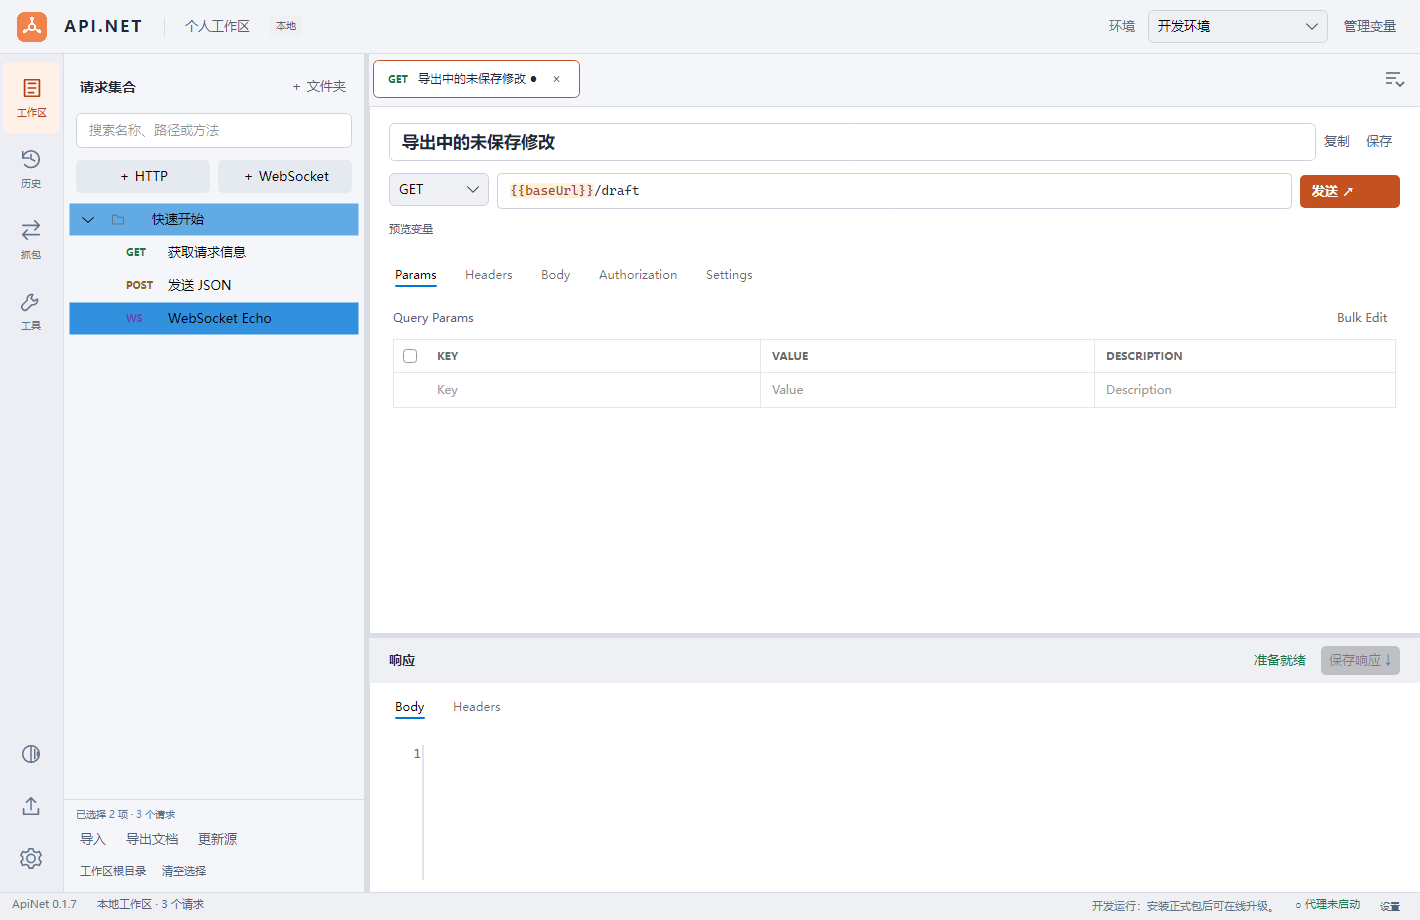
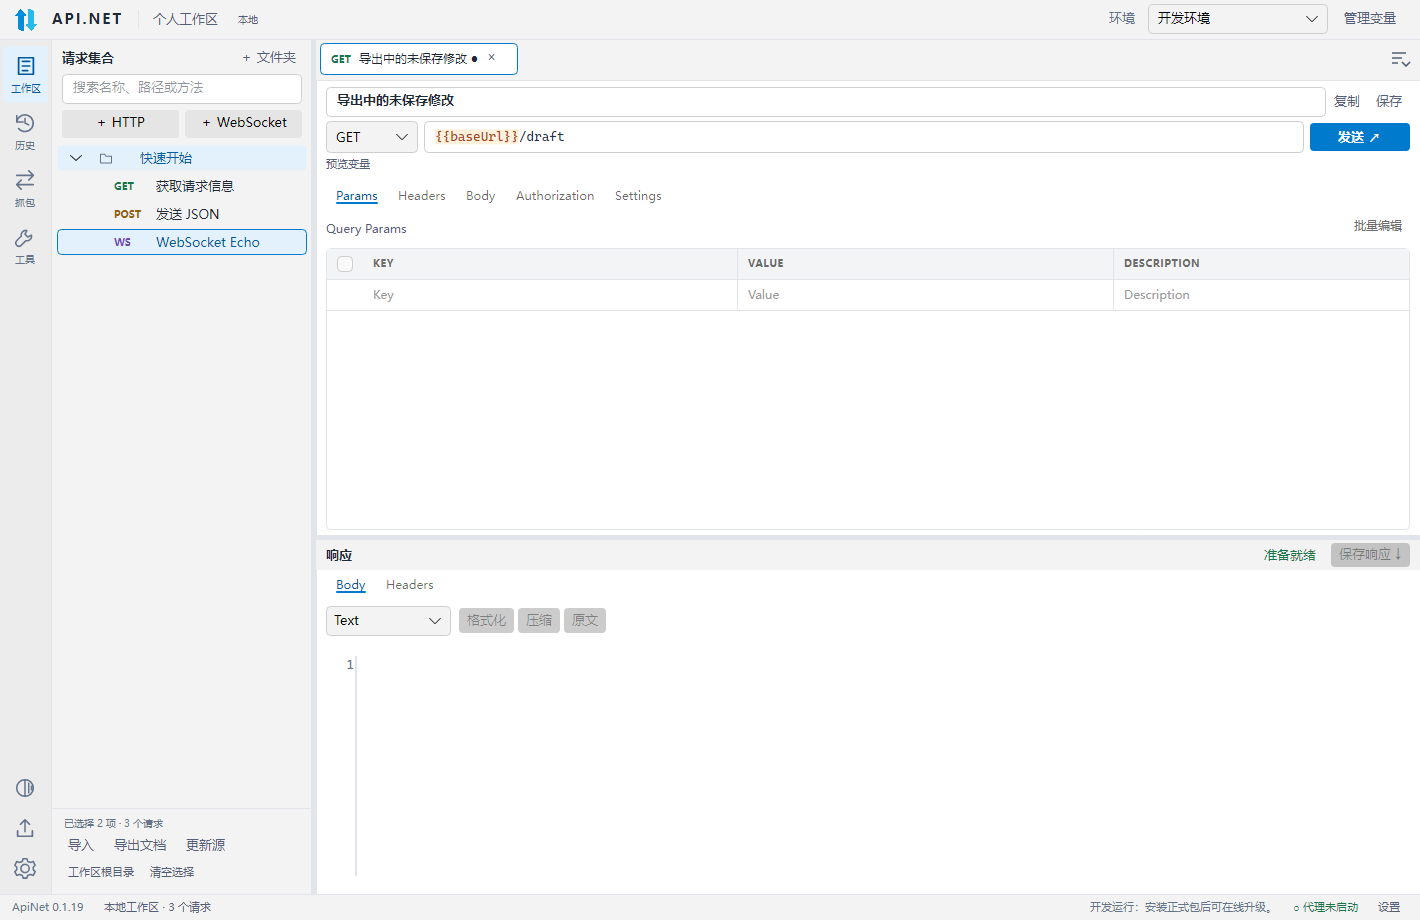
Refine workbench density and themed selection for v0.1.19

diff --git a/tests/ApiNet.Desktop.Tests/UiFeedbackTests.Appearance.cs b/tests/ApiNet.Desktop.Tests/UiFeedbackTests.Appearance.cs
@@ -3,6 +3,8 @@ using ApiNet.Desktop.Controls;
 using ApiNet.Desktop.Services;
 using ApiNet.Desktop.ViewModels.Settings;
 using ApiNet.Desktop.ViewModels.Tabs;
+using ApiNet.Desktop.ViewModels.Workspace;
+using ApiNet.Desktop.ViewModels.Tools;
 using ApiNet.Desktop.Views;
 using ApiNet.Desktop.Views.Tabs;
 using ApiNet.Infrastructure.Persistence;
@@ -94,12 +96,19 @@ public partial class UiFeedbackTests
             var http = window.GetVisualDescendants().OfType<HttpRequestView>().Single();
             http.FindControl<TabControl>("HttpRequestTabs")!.SelectedIndex = 1;
             http.FindControl<TabControl>("HttpResponseTabs")!.SelectedIndex = 1;
+            window.UpdateLayout(); Dispatcher.UIThread.RunJobs(); AvaloniaHeadlessPlatform.ForceRenderTimerTick();
+            var tree = window.GetVisualDescendants().OfType<TreeView>().Single();
+            var initialItem = tree.GetVisualDescendants().OfType<TreeViewItem>().Single(item => item.DataContext is WorkspaceNodeViewModel node && node.Id == tab.Id);
+            var label = initialItem.GetVisualDescendants().OfType<TextBlock>().First(text => text.Text == ((WorkspaceNodeViewModel)initialItem.DataContext!).Name);
+            var selectPoint = label.TranslatePoint(new Point(12, label.Bounds.Height / 2), window)!.Value;
+            window.MouseDown(selectPoint, MouseButton.Left); window.MouseUp(selectPoint, MouseButton.Left); Dispatcher.UIThread.RunJobs();
+            Assert.True(model.HasWorkspaceSelection);
             var colors = new HashSet<Color>();
             foreach (var theme in new[] { "Dark", "Light", "Midnight" })
             {
                 var settings = new SettingsViewModel(model.Workspace.Settings) { Theme = theme switch { "Dark" => "深色", "Light" => "浅色", _ => "午夜蓝" } };
                 settings.SaveCommand.Execute(null); await model.SettingsCommand.ExecuteAsync(null);
-                window.UpdateLayout(); Dispatcher.UIThread.RunJobs();
+                window.UpdateLayout(); Dispatcher.UIThread.RunJobs(); AvaloniaHeadlessPlatform.ForceRenderTimerTick();
                 colors.Add(Assert.IsAssignableFrom<ISolidColorBrush>(window.Background).Color);
                 var table = http.GetVisualDescendants().OfType<ParameterTable>().Single(x => x.Title == "Headers");
                 var checkbox = table.GetVisualDescendants().OfType<CheckBox>().Single(x => x.DataContext == tab.HeaderRows[0]);
@@ -107,7 +116,31 @@ public partial class UiFeedbackTests
                 Assert.Equal(ThemeService.Brush("Accent").ToString(), box.Background!.ToString());
                 var editor = table.GetVisualDescendants().OfType<CodeEditor>().First(x => x.Watermark == "Key");
                 Assert.Equal(ThemeService.Brush("TableText").ToString(), editor.Editor.Foreground!.ToString());
+                Assert.True(Application.Current!.TryGetResource("SystemAccentColor", Application.Current.ActualThemeVariant, out var fluentAccent));
+                Assert.Equal(Assert.IsAssignableFrom<ISolidColorBrush>(ThemeService.Brush("Accent")).Color, Assert.IsType<Color>(fluentAccent));
+                var selected = tree.GetVisualDescendants().OfType<TreeViewItem>().Single(item => item.DataContext is WorkspaceNodeViewModel node && node.Id == tab.Id);
+                Assert.Same(initialItem, selected);
+                Assert.True(selected.IsSelected);
+                var row = selected.GetVisualDescendants().OfType<Border>().Single(border => border.Name == "PART_LayoutRoot");
+                Assert.Equal(ThemeService.Brush("AccentSurface").ToString(), row.Background!.ToString());
+                Assert.Equal(new CornerRadius(4), row.CornerRadius);
+                Assert.InRange(selected.Bounds.Height, 27, 29);
+                var hoverPoint = row.TranslatePoint(new Point(row.Bounds.Width / 2, row.Bounds.Height / 2), window)!.Value;
+                window.MouseMove(hoverPoint); Dispatcher.UIThread.RunJobs();
+                Assert.Equal(ThemeService.Brush("AccentSurface").ToString(), row.Background!.ToString());
+                Assert.Equal(ThemeService.Brush("Accent").ToString(), row.BorderBrush!.ToString());
+                window.MouseMove(new Point(1, 1)); Dispatcher.UIThread.RunJobs();
                 SaveFrame(window, $"workbench-{theme.ToLowerInvariant()}-compact.png");
+                model.ActivePanel = "工具";
+                window.UpdateLayout(); Dispatcher.UIThread.RunJobs(); AvaloniaHeadlessPlatform.ForceRenderTimerTick();
+                var toolList = window.GetVisualDescendants().OfType<ListBox>().Single(list => list.ItemsSource == ToolsViewModel.Kinds);
+                var toolItem = Assert.IsType<ListBoxItem>(toolList.ContainerFromIndex(toolList.SelectedIndex));
+                var toolPresenter = toolItem.GetVisualDescendants().OfType<Avalonia.Controls.Presenters.ContentPresenter>().Single(presenter => presenter.Name == "PART_ContentPresenter");
+                Assert.Equal(ThemeService.Brush("AccentSurface").ToString(), toolPresenter.Background!.ToString());
+                Assert.Equal(new CornerRadius(4), toolPresenter.CornerRadius);
+                SaveFrame(window, $"navigation-tools-{theme.ToLowerInvariant()}.png");
+                model.ActivePanel = "工作区";
+                window.UpdateLayout(); Dispatcher.UIThread.RunJobs();
             }
             Assert.Equal(3, colors.Count); Assert.Equal(ThemeService.Midnight, window.ActualThemeVariant);
             var headerTable = http.GetVisualDescendants().OfType<ParameterTable>().Single(x => x.Title == "Headers");

diff --git a/src/ApiNet.UI/ViewModels/Workspace/WorkspaceNodeViewModel.cs b/src/ApiNet.UI/ViewModels/Workspace/WorkspaceNodeViewModel.cs
@@ -22,10 +22,8 @@ public partial class WorkspaceNodeViewModel : ViewModelBase
     {
         get;
     }
-    public string BadgeColor
-    {
-        get;
-    }
+    public string BadgeColor => ApiNet.Desktop.Services.ThemeService.MethodColor(IsFolder ? "" : Badge);
+    public void RefreshTheme() => OnPropertyChanged(nameof(BadgeColor));
     public bool SourceRemoved
     {
         get;
@@ -39,7 +37,6 @@ public partial class WorkspaceNodeViewModel : ViewModelBase
         IsFolder = true;
         Name = folder.Name;
         Badge = "▱";
-        BadgeColor = ApiNet.Desktop.Services.ThemeService.MethodColor("");
     }
     public WorkspaceNodeViewModel(RequestDefinition request)
     {
@@ -47,6 +44,5 @@ public partial class WorkspaceNodeViewModel : ViewModelBase
         Name = request.Name;
         Badge = request.Protocol == "WebSocket" ? "WS" : request.Method;
         SourceRemoved = request.SourceRemoved;
-        BadgeColor = ApiNet.Desktop.Services.ThemeService.MethodColor(Badge);
     }
 }

diff --git a/tests/ApiNet.Desktop.Tests/RequestTabsTests.cs b/tests/ApiNet.Desktop.Tests/RequestTabsTests.cs
@@ -47,7 +47,7 @@ public class RequestTabsTests
             Render(window);
             var control = window.GetVisualDescendants().OfType<TabControl>().Single(x => x.Name == "RequestTabs");
             var headers = Enumerable.Range(0, model.Tabs.Count).Select(index => Assert.IsType<TabItem>(control.ContainerFromIndex(index))).ToArray();
-            Assert.All(headers, header => { Assert.InRange(header.Bounds.Height, 33, 42); Assert.Equal(headers[0].Bounds.Top, header.Bounds.Top); });
+            Assert.All(headers, header => { Assert.InRange(header.Bounds.Height, 29, 34); Assert.Equal(headers[0].Bounds.Top, header.Bounds.Top); });
             var scroll = control.GetVisualDescendants().OfType<ScrollViewer>().Single(x => x.Name == "TabHeaderScroller");
             Assert.True(scroll.Extent.Width > scroll.Viewport.Width); Assert.InRange(scroll.Offset.X, 0, 1);
             var wheelPoint = scroll.TranslatePoint(new Point(80, 20), window)!.Value;

diff --git a/tests/ApiNet.Desktop.Tests/ParameterTableTests.cs b/tests/ApiNet.Desktop.Tests/ParameterTableTests.cs
@@ -72,7 +72,7 @@ public class ParameterTableTests
             Save(window, "postman-headers-light.png");
             Assert.Contains(table.GetVisualDescendants().OfType<TextBlock>(), x => x.Text == "DESCRIPTION");
             Assert.DoesNotContain(table.GetVisualDescendants().OfType<Button>(), x => x.Content is string content && content.Contains("添加参数"));
-            Assert.All(table.GetVisualDescendants().OfType<Border>().Where(x => x.Classes.Contains("parameter-row")), row => Assert.InRange(row.Bounds.Height, 32, 36));
+            Assert.All(table.GetVisualDescendants().OfType<Border>().Where(x => x.Classes.Contains("parameter-row")), row => Assert.InRange(row.Bounds.Height, 30, 32));
             table.Model.ToggleBulkCommand.Execute(null); Save(window, "postman-headers-bulk.png");
             table.Model.CancelBulkCommand.Execute(null);
             tab.BodyFormat = "Multipart"; tabs.SelectedIndex = 2; Render(window);

diff --git a/src/ApiNet.UI/ViewModels/MainWindowViewModel.cs b/src/ApiNet.UI/ViewModels/MainWindowViewModel.cs
@@ -188,7 +188,7 @@ public partial class MainWindowViewModel : ViewModelBase
     private void ApplyTheme()
     {
         ThemeService.Apply(Workspace.Settings.Theme);
-        RefreshTree();
+        foreach (var node in Flatten(Nodes)) node.RefreshTheme();
         foreach (var tab in Tabs) tab.RefreshTheme();
     }
     private static bool SameContent(RequestDefinition? left, RequestDefinition right) => left is not null && left.Name == right.Name && QueryUrl.WithoutQuery(left.Url) == QueryUrl.WithoutQuery(right.Url) && left.Method == right.Method && left.Body == right.Body && left.BodyFormat == right.BodyFormat && left.Headers == right.Headers && left.Subprotocol == right.Subprotocol && left.FollowRedirects == right.FollowRedirects && SameParameters(left.BodyParameters, right.BodyParameters) && SameParameters(QueryUrl.Parameters(left), QueryUrl.Parameters(right)) && SameParameters(left.HeaderParameters, right.HeaderParameters);

diff --git a/src/ApiNet.UI/Controls/CodeEditor.cs b/src/ApiNet.UI/Controls/CodeEditor.cs
@@ -102,7 +102,7 @@ public sealed class CodeEditor : UserControl
             // Hidden still scrolls: a short cell's caret and mouse selection can
             // recursively scroll each other. Single-line inputs never scroll vertically.
             Editor.VerticalScrollBarVisibility = SingleLine ? Avalonia.Controls.Primitives.ScrollBarVisibility.Disabled : Avalonia.Controls.Primitives.ScrollBarVisibility.Auto;
-            _border.Padding = IsTableCell ? new Thickness(9, 5) : SingleLine ? new Thickness(10, 6) : new Thickness(10);
+            _border.Padding = IsTableCell ? new Thickness(9, 4) : SingleLine ? new Thickness(10, 4) : new Thickness(10);
             _border.BorderThickness = SingleLine ? new Thickness(1) : new Thickness(0);
             _border.CornerRadius = new CornerRadius(4);
             Editor.FontSize = IsTableCell ? 12 : 13;

diff --git a/README.md b/README.md
@@ -94,7 +94,7 @@ v0.1.18 的[测试工作流](https://github.com/coolqingcheng/ApiNet/actions/run
 
 ## 已实现
 
-- 多级文件夹：新建、重命名、删除、拖动移动；请求支持 HTTP 和 WebSocket。左侧树采用 24 px 紧凑行距，文件夹和请求统一对齐。
+- 多级文件夹：新建、重命名、删除、拖动移动；请求支持 HTTP 和 WebSocket。左侧树采用约 28 px 行距，选中背景使用主题蓝色和 4 px 圆角；与侧栏、输入框、标签和参数表保持协调的密度。
 - 每个请求独立标签页；清晰边框区分当前与其他标签，固定单行、横向滚动；右侧“全部标签”支持名称/方法/URL 模糊搜索及快速切换。右键支持关闭、关闭其他、关闭左侧、关闭右侧和全部关闭；支持保存、复制、草稿恢复和 Ctrl+N、Ctrl+S、Ctrl+W。
 - HTTP 方法、URL 与 Params 双向同步，省略协议时默认使用 `http://`；Query/Header/Form 参数采用 Postman 风格的 KEY / VALUE / DESCRIPTION 表格，底部空行新增、悬停删除、全选启停和 Bulk Edit；支持重复查询参数、Bearer Token、重定向控制、发送动画、取消和响应查看。
 - URL、参数、Header、认证和请求体中的 `{{变量}}` 高亮；JSON/XML/HTML 语法高亮和 JSON/XML 格式化，支持 JSON、XML、Text、HTML、JavaScript 请求体类型。显式填写的 Content-Type 优先于类型默认值；Multipart 保留客户端生成的边界。
@@ -227,14 +227,14 @@ Windows 默认使用 `%LOCALAPPDATA%/ApiNetData` 保存数据，与 `%LOCALAPPDA
 发布使用原生 AOT，目标为 `win-x64`、`linux-x64`、`osx-arm64`，打包脚本和 CI 发布矩阵仅接受这三个目标。在对应操作系统上用 PowerShell 7 执行：
 
 ```powershell
-./scripts/publish.ps1 -Rid win-x64 -Version 0.1.18
+./scripts/publish.ps1 -Rid win-x64 -Version 0.1.19
 ```
 
 - Windows 需要 Visual Studio C++ 桌面构建工具和 Windows SDK，ARM64 额外需要 ARM64 C++ 工具链。生成未签名 Setup.exe。
 - Linux 需要 clang、zlib 开发库和 squashfs-tools，生成 AppImage。CI 的 Linux 基线为 Ubuntu 24.04。
 - macOS 需要 Xcode Command Line Tools，生成便携 `.app.zip` 和 `.dmg`。不配置 Developer ID 签名、公证或商店发布。
 
-在仓库 Actions 中运行 **Native AOT packages**，输入递增的 SemVer 版本号（例如 `0.1.18`）。工作流运行测试，构建 Windows x64、Linux x64 和 macOS ARM64 三个目标，全部成功后发布同名 GitHub Release，同时上传安装包、更新包、架构索引和 SHA256 校验文件。无需签名密钥。发布使用工作流内置的 `GITHUB_TOKEN`，无需个人访问令牌。本地输出在 `artifacts/releases/{RID}`。
+在仓库 Actions 中运行 **Native AOT packages**，输入递增的 SemVer 版本号（例如 `0.1.19`）。工作流运行测试，构建 Windows x64、Linux x64 和 macOS ARM64 三个目标，全部成功后发布同名 GitHub Release，同时上传安装包、更新包、架构索引和 SHA256 校验文件。无需签名密钥。发布使用工作流内置的 `GITHUB_TOKEN`，无需个人访问令牌。本地输出在 `artifacts/releases/{RID}`。
 
 ## 在线更新源
 

diff --git a/docs/RELEASE-NOTES.md b/docs/RELEASE-NOTES.md
@@ -1,8 +1,9 @@
-ApiNet 0.1.18：收紧左侧工作区菜单树的节点间距。
+ApiNet 0.1.19：协调工作台整体密度，统一主题选中色与圆角。
 
-- 文件夹、HTTP 请求和 WebSocket 请求的树节点行高由 32 px 收紧为 24 px，同一屏可显示更多请求。
-- 减少节点上下内边距，保留原有字号、图标及层级缩进，文字与展开箭头保持垂直居中。
-- 深色、浅色和午夜蓝主题使用一致的紧凑行距，支持原有的展开/折叠、单选、Ctrl/⌘ 多选及右键菜单。
+- 左侧树节点回调为约 28 px 行距，选中背景采用当前主题的蓝色衬底与 4 px 圆角，节点之间保留轻微间隔。
+- 统一深色、浅色和午夜蓝的默认控件强调色、列表选中背景与标签指示线，避免部分控件回退到系统颜色。
+- 同步收紧侧栏工具区、历史与抓包筛选、请求标签和编辑区间距；普通输入框约 30 px，主地址栏 32 px，参数表与响应头表使用 30 px 基准行高。
+- 切换主题时直接更新现有树节点的颜色，保留选中项和展开状态，避免重建节点导致选择丢失。
 
 Windows Setup.exe 支持覆盖安装和同版本修复。Windows x64、Linux x64、macOS ARM64 均提供 Native AOT 包，在线更新继续使用公开 GitHub Releases；`*.nupkg` 和 `releases.*.json` 用于更新，SHA256SUMS.txt 提供校验。
 
